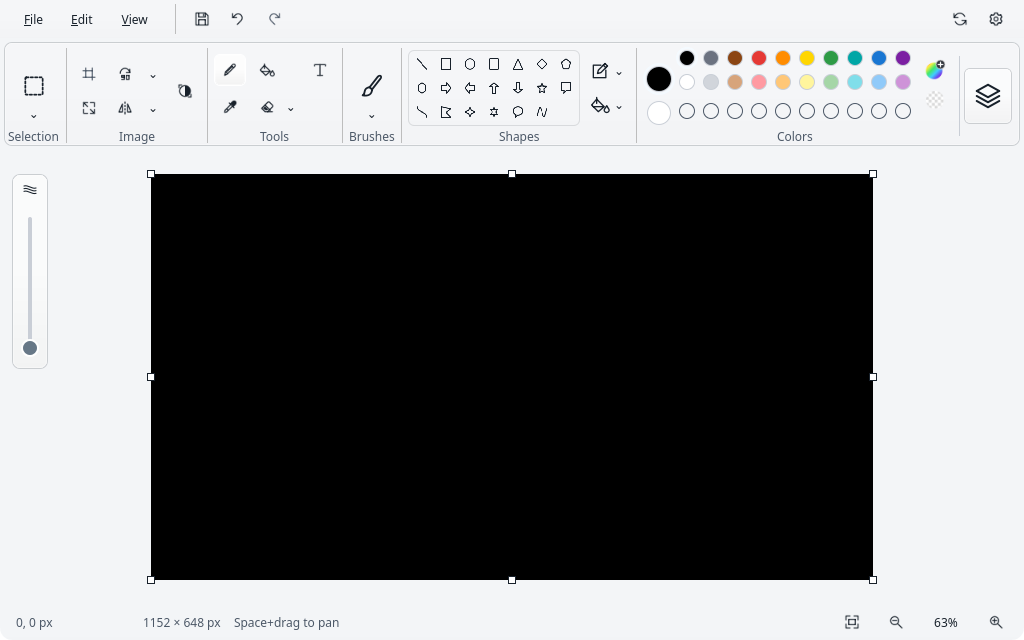
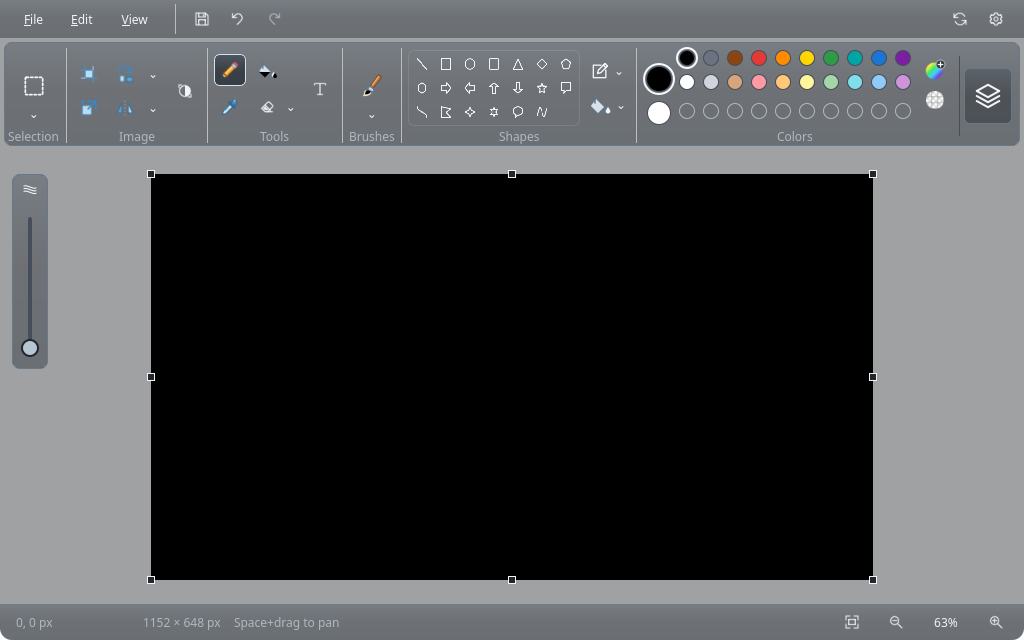
Refresh colored ribbon artwork and live paint previews

diff --git a/qml/Main.qml b/qml/Main.qml
@@ -1021,6 +1021,8 @@ ApplicationWindow {
                     columns: 3
                     IconButton {
                         flat: true
+                        Layout.row: 0
+                        Layout.column: 0
                         symbol: "pencil"
                         objectName: "pencilButton"
                         text: qsTr("Pencil")
@@ -1033,8 +1035,11 @@ ApplicationWindow {
                     }
                     IconButton {
                         flat: true
+                        Layout.row: 0
+                        Layout.column: 1
                         symbol: "fill"
                         objectName: "fillButton"
+                        paintColor: editor.selectedColor
                         text: qsTr("Fill")
                         enabled: !editor.textActive
                         checkable: true
@@ -1045,6 +1050,9 @@ ApplicationWindow {
                     }
                     IconButton {
                         flat: true
+                        Layout.row: 0
+                        Layout.column: 2
+                        Layout.rowSpan: 2
                         symbol: "text"
                         objectName: "textButton"
                         text: qsTr("Text")
@@ -1057,6 +1065,8 @@ ApplicationWindow {
                     }
                     IconButton {
                         flat: true
+                        Layout.row: 1
+                        Layout.column: 0
                         symbol: "eyedropper"
                         objectName: "pickerButton"
                         text: qsTr("Color picker")
@@ -1068,6 +1078,8 @@ ApplicationWindow {
                         Accessible.name: text
                     }
                     Row {
+                        Layout.row: 1
+                        Layout.column: 1
                         spacing: 0
                         IconButton {
                             flat: true
@@ -1149,6 +1161,7 @@ ApplicationWindow {
                         objectName: "brushesButton"
                         enabled: !editor.textActive
                         symbol: "brush"
+                        paintColor: editor.selectedColor
                         icon.width: 28
                         icon.height: 28
                         width: 40

diff --git a/qml/IconButton.qml b/qml/IconButton.qml
@@ -1,19 +1,34 @@
 // SPDX-License-Identifier: GPL-3.0-or-later
 import QtQuick
 import QtQuick.Controls
+import QtQuick.Controls.impl
 import OpenPaint
 
 PaintButton {
     id: control
     property string symbol
+    readonly property bool colored: Theme.coloredIcon(symbol ? "icons/" + symbol + ".svg" : action ? action.icon.source : "")
+    property color paintColor: "black"
     property string shortcutLabel: ""
     implicitWidth: 32
     implicitHeight: 32
+    padding: colored ? 4 : 6
     display: AbstractButton.IconOnly
     icon.source: "icons/" + symbol + ".svg"
-    icon.width: 20
-    icon.height: 20
-    icon.color: enabled ? Theme.text : Theme.secondaryText
+    icon.width: colored ? 24 : 20
+    icon.height: colored ? 24 : 20
+    icon.color: colored ? "transparent" : enabled ? Theme.text : Theme.secondaryText
+    IconImage {
+        objectName: "toolPaintOverlay"
+        z: 1
+        anchors.centerIn: parent
+        width: control.icon.width
+        height: control.icon.height
+        source: control.symbol === "fill" || control.symbol === "brush" ? "icons/" + control.symbol + "-paint.svg" : ""
+        visible: control.display === AbstractButton.IconOnly && (control.symbol === "fill" || control.symbol === "brush") && control.paintColor.a > 0
+        color: control.paintColor
+        opacity: control.enabled ? 1 : 0.5
+    }
     ToolTip.visible: hovered
     ToolTip.delay: 500
     ToolTip.text: text.replace(/&/g, "") + (shortcutLabel ? " (" + shortcutLabel + ")" : "")

diff --git a/qml/PaintMenuItem.qml b/qml/PaintMenuItem.qml
@@ -11,7 +11,7 @@ MenuItem {
     icon.source: symbol.length ? "icons/" + symbol + ".svg" : action ? action.icon.source : ""
     icon.width: 18
     icon.height: 18
-    icon.color: enabled ? Theme.text : Theme.secondaryText
+    icon.color: Theme.coloredIcon(symbol.length ? "icons/" + symbol + ".svg" : action ? action.icon.source : "") ? "transparent" : enabled ? Theme.text : Theme.secondaryText
     implicitHeight: 36
     leftPadding: 40
     palette.windowText: enabled ? Theme.text : Theme.secondaryText

diff --git a/qml/Theme.qml b/qml/Theme.qml
@@ -5,6 +5,9 @@ import QtQuick
 import OpenPaint
 
 QtObject {
+    function coloredIcon(source: url): bool {
+        return /\/(pencil|eyedropper|fill|brush|crop|resize|flip|flip-vertical|rotate-right|rotate-left|rotate-half)\.svg$/.test(source.toString());
+    }
     // 0 follows the desktop, 1 is light, 2 is dark. Persisted with appearance preferences.
     readonly property int controlRadius: 6
     readonly property int surfaceRadius: 8

diff --git a/tests/ui/tst_shell.cpp b/tests/ui/tst_shell.cpp
@@ -102,6 +102,57 @@ class ShellTest : public QObject {
         QVERIFY2(warnings.isEmpty(), qPrintable(warnings.join('\n')));
     }
 
+    void coloredRibbonWorkflow() {
+        auto* editor = window->findChild<Editor*>("editor");
+        auto* fill = window->findChild<QQuickItem*>("fillButton");
+        auto* brush = window->findChild<QQuickItem*>("brushesButton");
+        auto* text = window->findChild<QQuickItem*>("textButton");
+        auto* invert = window->findChild<QQuickItem*>("invertColorsButton");
+        QVERIFY(fill && brush && text && invert);
+        const auto paintsColor = [&](QQuickItem* item, QColor color) {
+            QGuiApplication::sync();
+            const auto frame = window->grabWindow();
+            const qreal scale = qreal(frame.width()) / window->width();
+            const auto position = item->mapToScene({0, 0});
+            int matching = 0;
+            for (int y = int(position.y() * scale);
+                 y < int((position.y() + item->height()) * scale); ++y)
+                for (int x = int(position.x() * scale);
+                     x < int((position.x() + item->width()) * scale); ++x)
+                    if (frame.pixelColor(x, y).rgb() == color.rgb())
+                        ++matching;
+            return matching >= 2;
+        };
+        window->resize(1024, 640);
+        auto* appearance = engine->singletonInstance<Appearance*>("OpenPaint", "Appearance");
+        appearance->setThemeMode(1);
+        editor->setEditingSecondary(false);
+        editor->setSelectedColor(QColor("#db5036"));
+        QTRY_COMPARE(fill->property("paintColor").value<QColor>(), QColor("#db5036"));
+        QTRY_COMPARE(brush->property("paintColor").value<QColor>(), QColor("#db5036"));
+        QTRY_VERIFY(paintsColor(fill, QColor("#db5036")));
+        QTRY_VERIFY(paintsColor(brush, QColor("#db5036")));
+        QVERIFY(capture("colored-ribbon-light.png"));
+        QVERIFY(std::abs(text->mapToScene({0, text->height() / 2}).y() -
+                         invert->mapToScene({0, invert->height() / 2}).y()) <= 2);
+        editor->setEditingSecondary(true);
+        editor->setSelectedColor(QColor("#348bd5"));
+        QTRY_COMPARE(fill->property("paintColor").value<QColor>(), QColor("#348bd5"));
+        QTRY_COMPARE(brush->property("paintColor").value<QColor>(), QColor("#348bd5"));
+        appearance->setThemeMode(2);
+        QTRY_VERIFY(paintsColor(fill, QColor("#348bd5")));
+        QTRY_VERIFY(paintsColor(brush, QColor("#348bd5")));
+        QVERIFY(capture("colored-ribbon-dark.png"));
+        auto* layers = window->findChild<QQuickItem*>("layersButton");
+        QVERIFY(layers->mapToScene({layers->width(), 0}).x() <= window->width() - 4);
+        auto* paint = fill->findChild<QQuickItem*>("toolPaintOverlay");
+        QVERIFY(paint);
+        editor->setSelectedColor(Qt::transparent);
+        QTRY_VERIFY(!paint->isVisible());
+        QVERIFY(tabTo("textButton"));
+        keyClick(Qt::Key_Space);
+        QCOMPARE(editor->tool(), Editor::Tool::Text);
+    }
     void invertColorsWorkflow() {
         auto* editor = window->findChild<Editor*>("editor");
         const auto original = editor->image();

diff --git a/docs/assets/README.md b/docs/assets/README.md
@@ -104,7 +104,7 @@ build/release/openpaint_shell_tests websiteReleasePreview
 ## Layer feature development evidence
 
 `layers-light-1280.png` and `layers-dark-1024.png` were captured on 2026-10-21
-from the plan 0059 Image-ribbon color-inversion revision using `openpaint_shell_tests layersWorkflow`,
+from the plan 0059 colored-ribbon follow-up revision using `openpaint_shell_tests layersWorkflow`,
 Qt 6.12.0 offscreen/software, at 1280×800 and 1024×640. They show a generated
 orange stroke at 65% layer opacity, an empty transparent layer, and the pinned
 white background below its divider. The right rail uses top-right hover/focus eye controls, a circular add button
@@ -122,3 +122,11 @@ invertColorsWorkflow` on 2026-10-21 using Qt 6.12.0 offscreen/software at
 1024×640. It shows a generated white canvas inverted to black and the original
 contrast icon in the Image group. The isolated settings and development-only
 evidence limitations above also apply.
+
+`colored-ribbon-light.png` and `colored-ribbon-dark.png` were captured by
+`openpaint_shell_tests coloredRibbonWorkflow` on 2026-10-21 from the colored-icon
+follow-up, Qt 6.12.0 offscreen/software at 1024×640. The blank white canvas is
+generated; red foreground and blue background selections demonstrate the live
+fill/brush paint regions. All vectors are original project artwork. Settings are
+isolated; these are development UI captures, not release/compositor evidence.
+The layer and inversion captures above were refreshed from the same source.

diff --git a/docs/plans/0059-invert-colors.md b/docs/plans/0059-invert-colors.md
@@ -45,3 +45,16 @@ captures were visually inspected; provenance is in [assets](../assets/README.md)
 
 Implemented on feat/layers per the ongoing one-branch request. Published to existing
 PR #56; protected CI/review is the next unfinished step. No merge or release.
+
+## Ribbon artwork follow-up
+
+Acceptance: center Text like Invert colors; use original colored pencil/picker and
+blue image icons; color only the fill liquid/drop and brush tip from the selected
+color; retain readable light/dark, disabled and minimum-width controls. Preserve
+keyboard activation and icon meanings. Implemented with original SVG vectors and
+separate tint masks. Rendered-pixel assertions verify red/blue selected paint in
+both Fill and Brush, foreground/background switching, transparent overlay hiding,
+Text centering and keyboard activation. The workflow passes offscreen/software
+and X11/Mesa OpenGL at 100% and 200%. Light/dark captures were visually inspected
+and refreshed. Build, formatting, zero-warning QML lint and repository/diff checks
+pass. All six shell regression suites passed (55.65 seconds). Protected CI/review remains next; no release.

diff --git a/docs/DESIGN.md b/docs/DESIGN.md
@@ -371,3 +371,10 @@ All icons and captured artwork remain original OpenPaint assets.
 The Image ribbon group includes an Invert colors contrast-circle icon. It inverts
 the active layer's RGB, or selected pixels only, preserving transparency and other
 layers. Selection inversion remains a separate selection-menu command.
+
+The Tools group centers Text across both rows, aligned with Invert colors.
+Original colored ribbon vectors use a warm orange pencil with red end, a blue
+color-picker bulb, a wood-and-metal brush and blue image-transform accents.
+Colored tool/image icons use 24-unit artwork targets (brush 28); fill liquid/drop
+and brush-tip overlays follow the selected foreground/background color. Fully
+transparent color hides the paint overlay. Other icons retain theme tinting.

diff --git a/docs/MENUS.md b/docs/MENUS.md
@@ -475,3 +475,7 @@ Save As (Ctrl+Shift+S) offers OpenRaster alongside PNG for a flat image. Existin
 .ora projects keep their format. Export copy flattens visible layers and never
 marks the project saved. The Open dialog includes .ora. Filename extensions are
 validated without changing a portal-granted destination.
+
+The Text tool spans the Tools group's two rows. Colored tool/image icons retain
+their original palette in menus; Fill and Brush ribbon previews follow the currently
+selected drawing color, including foreground/background switching and transparency.

diff --git a/CHANGELOG.md b/CHANGELOG.md
@@ -2,6 +2,9 @@
 
 ## Unreleased
 
+- Center the Text tool and refresh original colored ribbon icons, with live
+  selected-color previews in the fill bucket/drop and brush tip.
+
 - Add an Image-ribbon Invert colors command for the active layer or selection,
   preserving transparency and supporting undo/redo.
 
